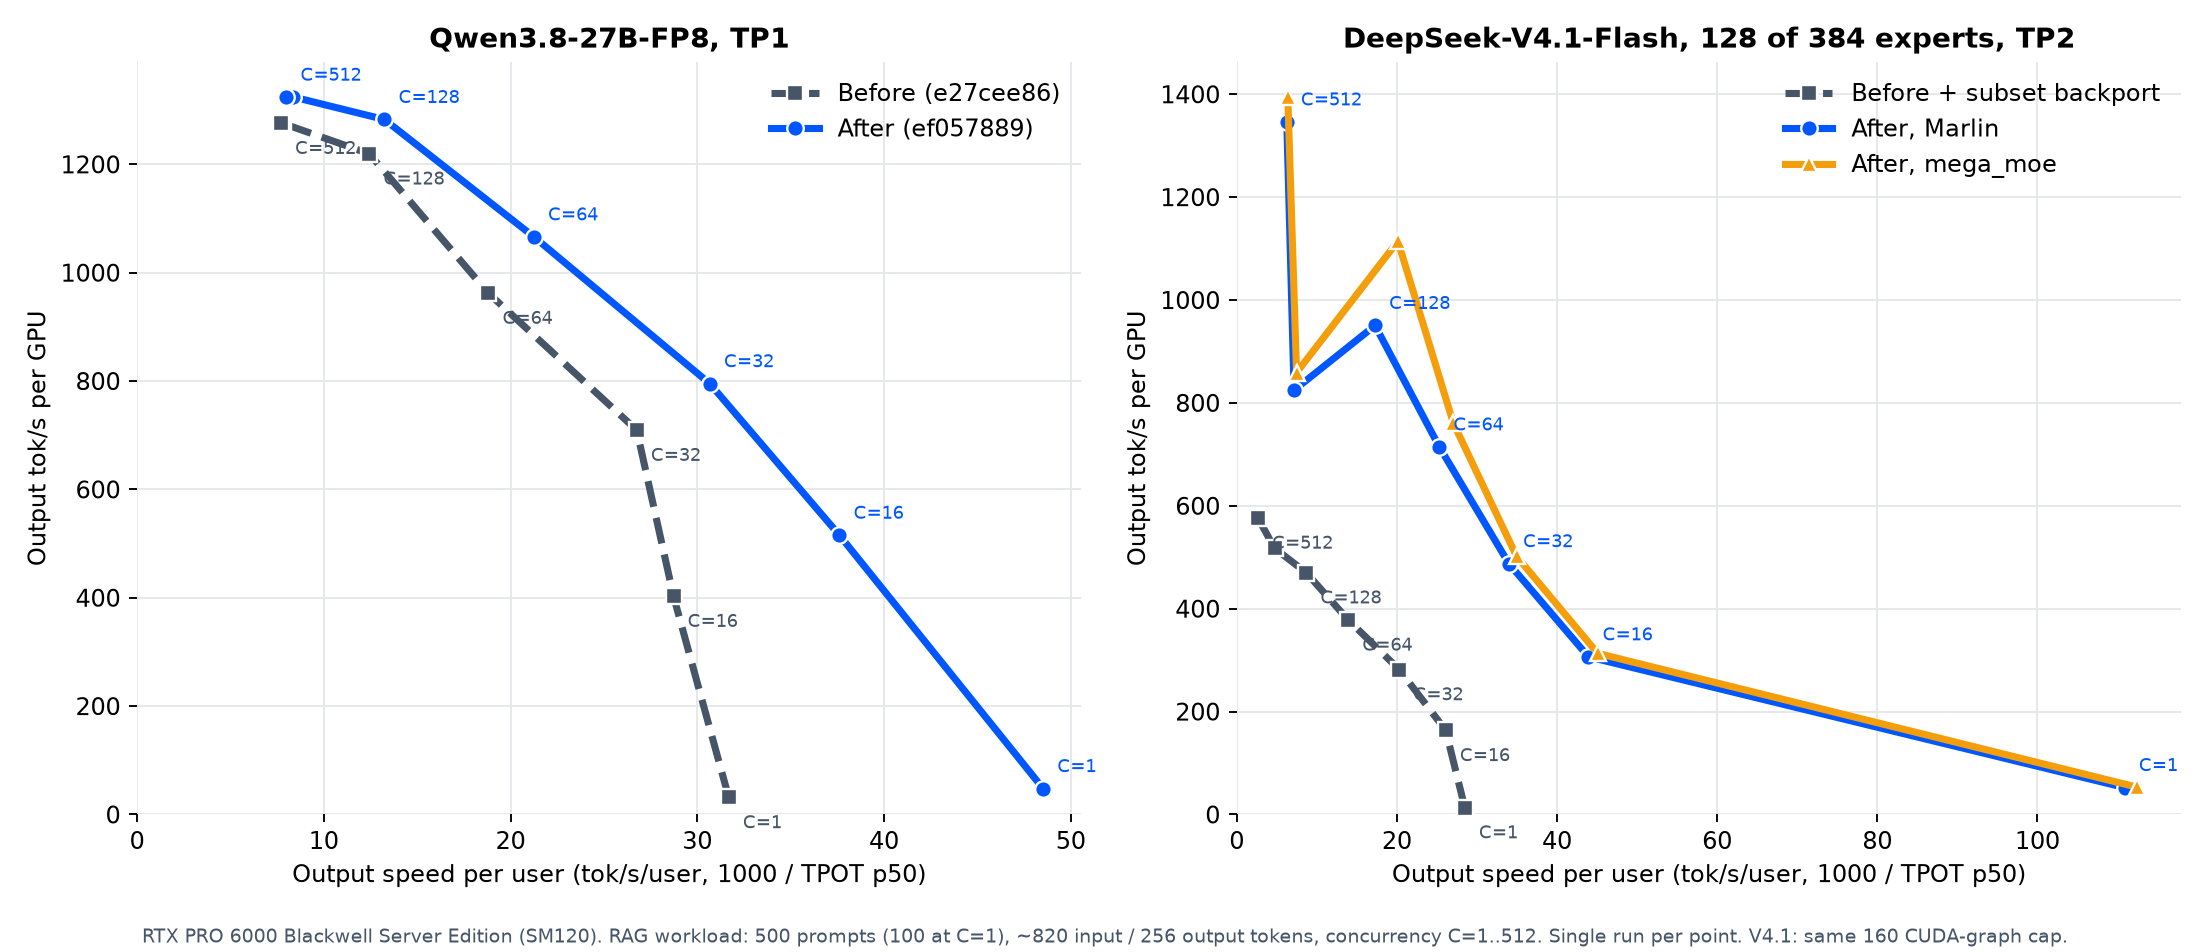
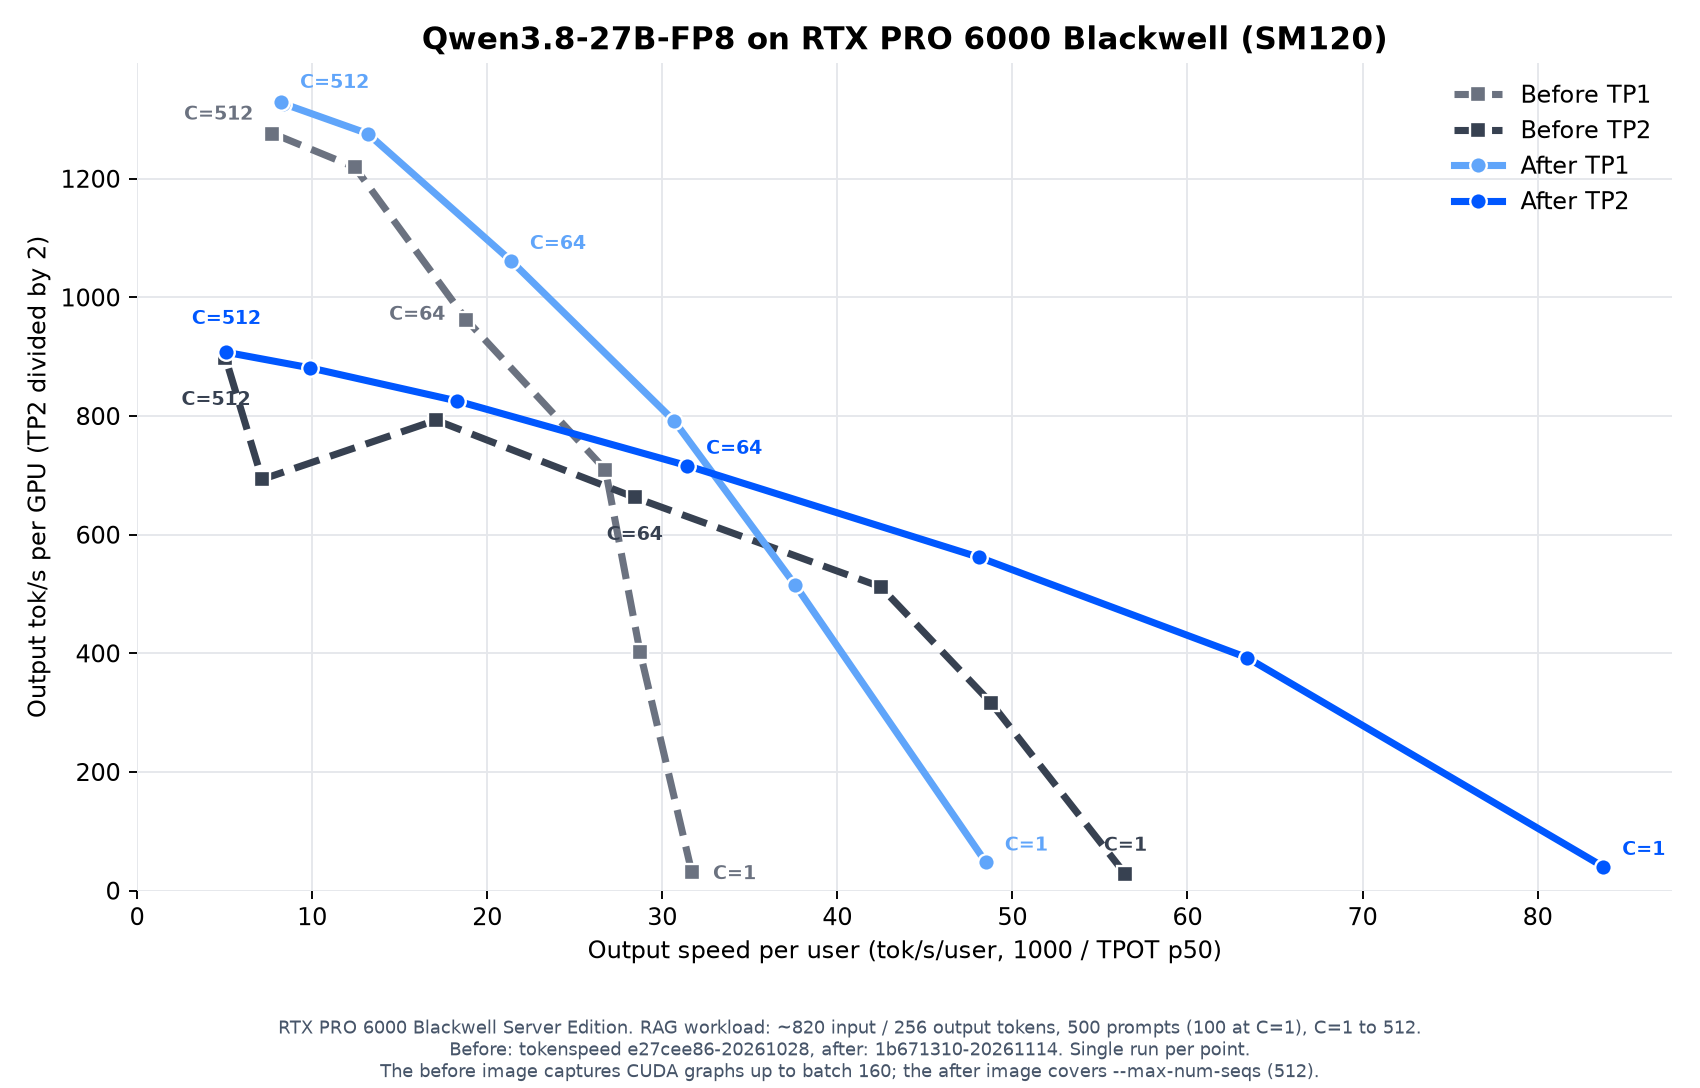
docs: SM120 README chart by parallelism (Qwen3.8-27B-FP8 TP1 and TP2)
Redraw the SM120 chart as one panel with four curves (before and after,
TP1 and TP2) and add the TP1/TP2 ratios to the SM120 section.

diff --git a/README.md b/README.md
@@ -25,7 +25,7 @@ TokenSpeed runs natively on SM120 (compute capability 12.0), with no SM100-only 
 
 `scripts/install.sh` builds DeepGEMM from the `DeepGEMM` submodule. Serve with `tokenspeed serve` as in the [Launching a Server](https://lightseek.org/tokenspeed/guides/launching) guide.
 
-- Qwen3.8-27B-FP8 (TP1, RAG): 1.52x output tok/s at C=1 (TPOT p50 31.6 to 20.6 ms) and 1.04x at C=512.
+- Qwen3.8-27B-FP8 (RAG), TP1: 1.52x output tok/s at C=1 (TPOT p50 31.6 to 20.6 ms) and 1.04x at C=512. TP2: 1.47x at C=1 (TPOT p50 17.7 to 11.9 ms) and 1.01x at C=512 (1.27x at C=256).
 - DeepSeek-V4.1-Flash, 128-of-384 expert subset (TP2): 1.6-4.0x output tok/s over the previous image.
 - Qwen3.8-27B-NVFP4 and Qwen3.5-122B-A10B-NVFP4 now serve.
 
@@ -34,13 +34,13 @@ Details: [DeepGEMM report](https://github.com/nctu6/DeepGEMM/blob/nctu6/deepgemm
 <p align="center">
   <img
     src="assets/perf/tokenspeed-sm120-performance.png"
-    alt="TokenSpeed before vs. after on RTX PRO 6000 Blackwell (SM120), RAG workload"
+    alt="Qwen3.8-27B-FP8 TP1 and TP2, before vs. after on RTX PRO 6000 Blackwell (SM120), RAG workload"
     width="800"
   />
 </p>
 
 <p align="center">
-  <em>Output speed per user vs. output throughput per GPU, before vs. after SM120 support (RTX PRO 6000 Blackwell, RAG workload, C=1 to 512)</em>
+  <em>Qwen3.8-27B-FP8, TP1 and TP2: output speed per user vs. output throughput per GPU, before vs. after SM120 support (RTX PRO 6000 Blackwell, RAG workload, C=1 to 512, single run per point; the before image captures CUDA graphs up to batch 160)</em>
 </p>
 
 ## Differentiation
